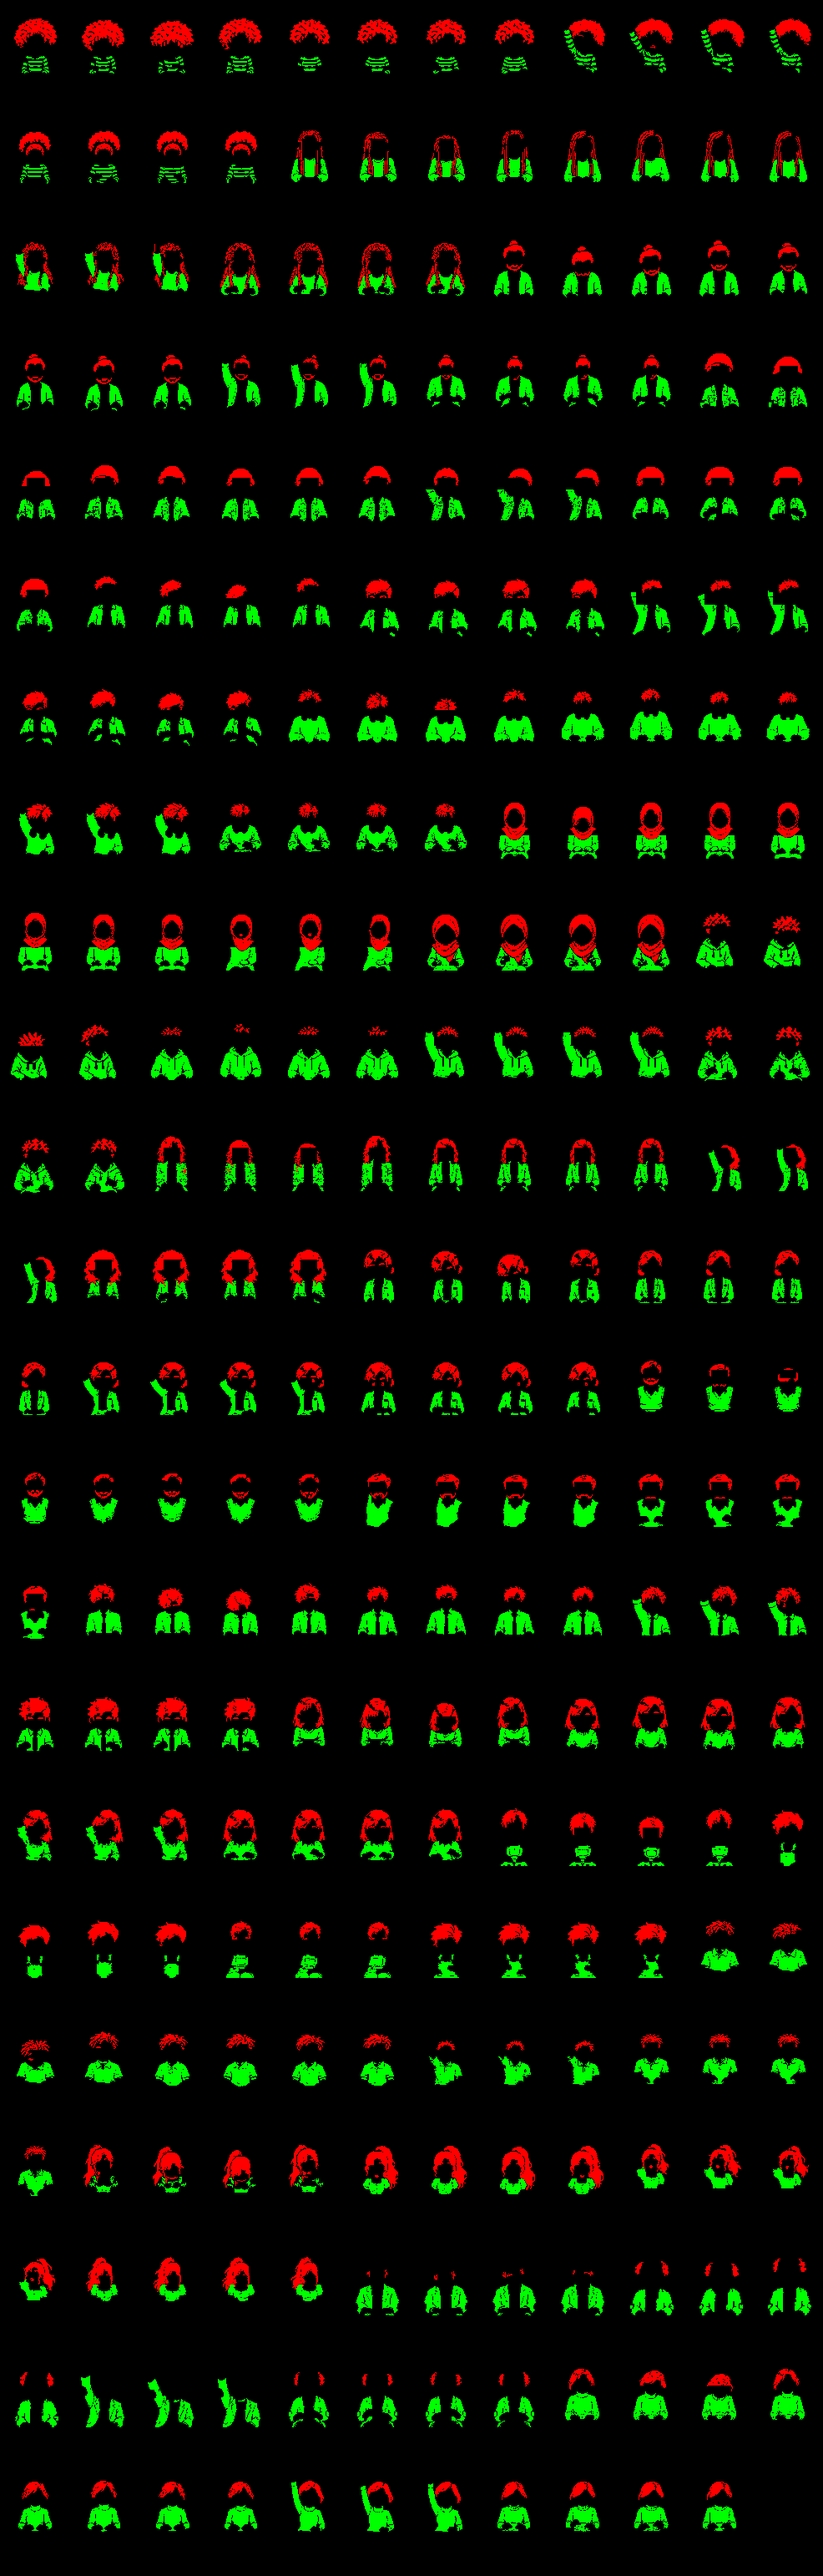
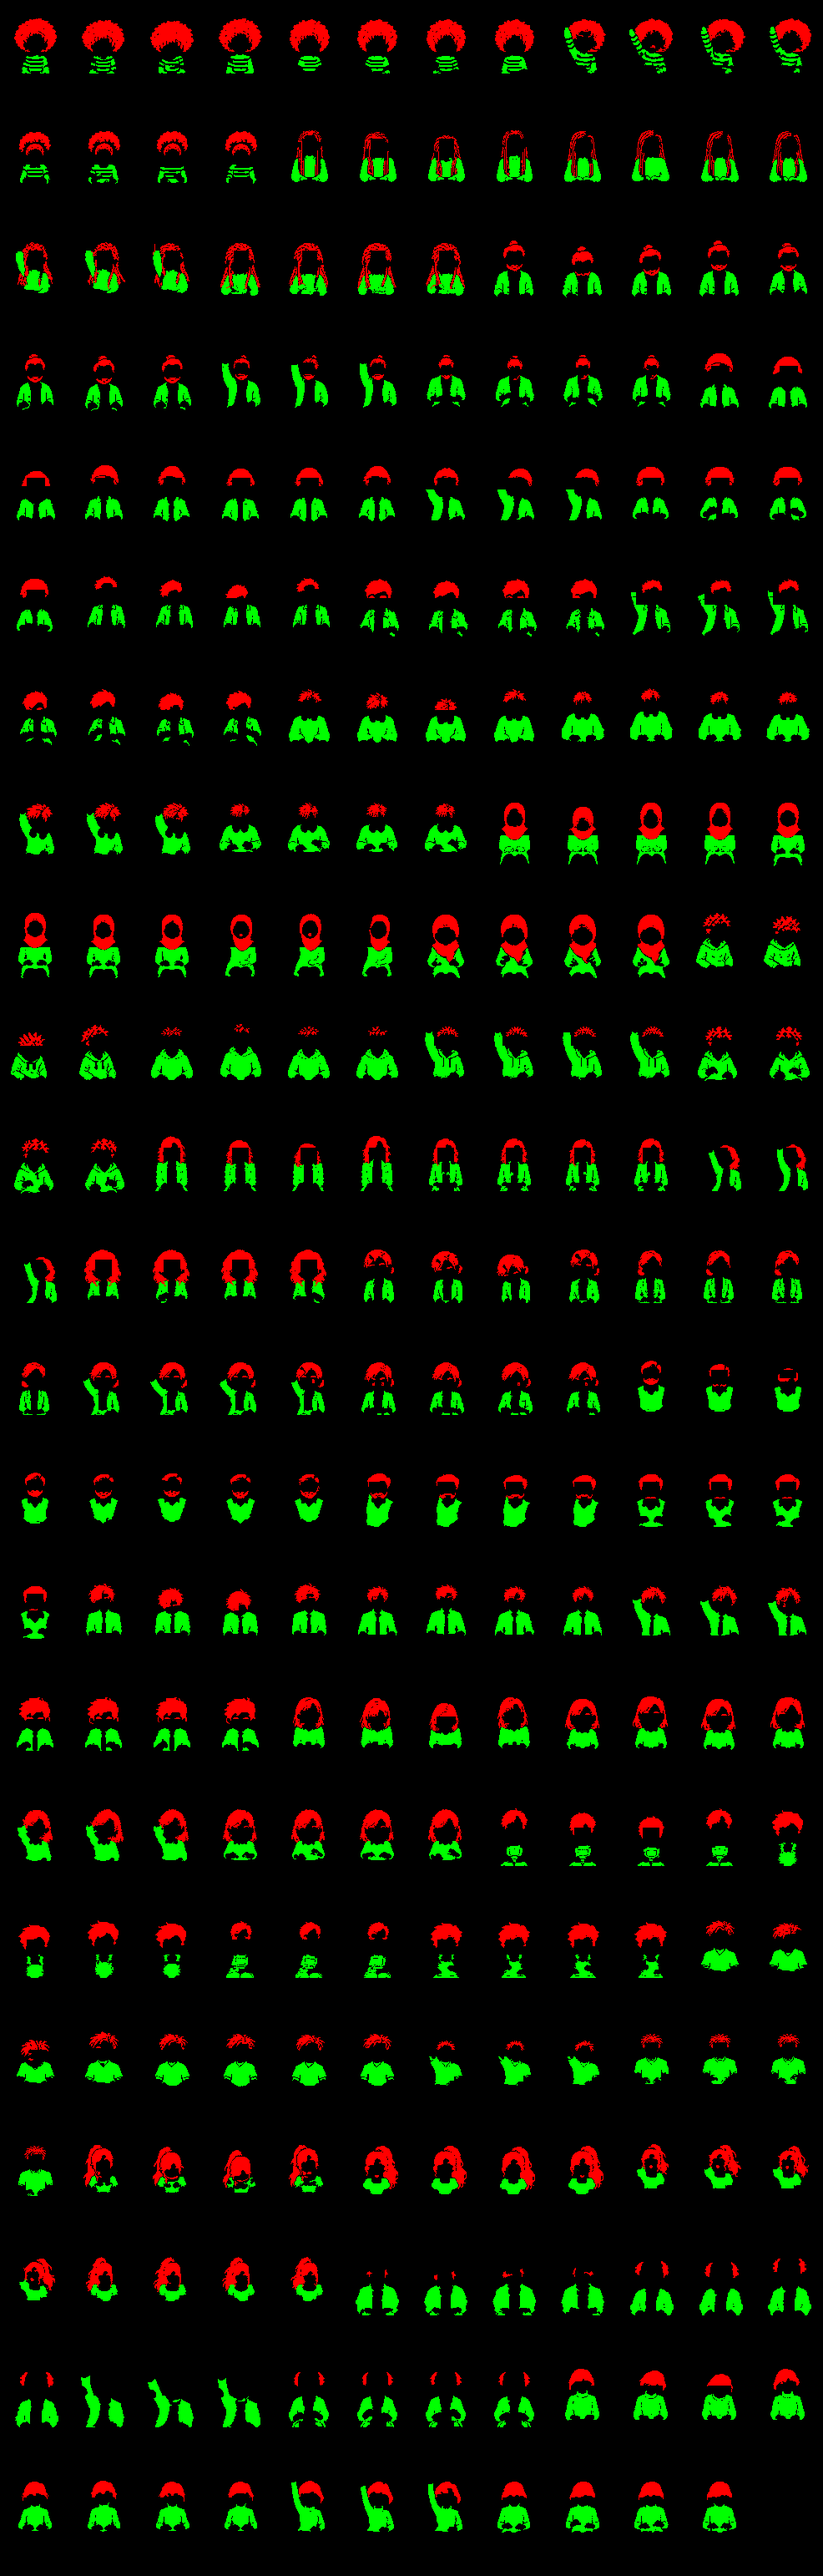
fix(sprites): 색 바꾸기 마스크에 음영·구멍을 메우는 후처리를 넣고 afro·hijab·lead-blazer 레시피 고치기

Changed region(s): [[0.6085, 0.0, 0.6389, 0.0311]]

diff --git a/tools/sprites/mask.py b/tools/sprites/mask.py
@@ -32,6 +32,20 @@
 고를 색에만 더하고 기본색 계산에는 넣지 않는다 (기본색은 idle 표본 기준. 드문 색 기준은 부위의 `minShare`).
 레시피의 `direction` 은 그 칸(`char/<id>/<direction>/idle/0`)과 미리보기에서 볼 칸을 정한다.
 
+후처리 (레시피 맨 위 `"fill": {"grow": 1.5, "growSteps": 3, "majority": 2, "holes": 16}`, v5 레시피. 없으면 하지 않는다):
+위 규칙으로 고른 뒤 칸마다 부위별로 이 순서로 더한다. 부위의 세로 범위 밖·exclude 상자 안·다른 부위가 이미 고른 픽셀·
+투명 픽셀은 건드리지 않고, 외곽선(`outlineMax` 이하)은 더하지 않는다.
+- grow: 고른 픽셀에 8방향으로 맞닿고, 고를 색과의 거리가 tolerance×grow 미만이며 다른 부위·피부 표본보다 이 부위
+  표본이 더 가까운 픽셀을 growSteps 걸음까지 더한다 (표본 밖의 한 단계 더 짙거나 옅은 음영·주름선)
+- majority: 8이웃 중 5개 이상이 고른 픽셀인 것을 majority 번 더한다 (덩어리 가장자리의 이 빠진 곳)
+- holes: 고른 픽셀 ∪ 외곽선이 4방향으로 둘러싼 holes 픽셀 이하 구멍 중 둘레의 절반 이상이 고른 픽셀인 것을 메운다
+  (외곽선만으로 닫힌 눈·신발은 둘레 조건으로 빠진다)
+- 머리·윗옷이 같은 픽셀을 더하면 원래 고른 쪽이 갖고, 둘 다 새로 더한 것이면 둘 다 뺀다
+이유: 표본 상자 안에 있던 음영색이 드문 색 기준(minShare)에 걸리거나 tolerance 를 조금 넘어, 바꾼 색 사이에 원래 색 픽셀이
+섬·구멍·가장자리 줄로 남았다 (18명 × 세 방향 × 모든 칸에서 51,283 픽셀. 60% 가 드문 색, 22% 가 표본 밖 음영).
+minShare 를 낮추면 피부·다른 부위가 같이 잡혀서, 고른 픽셀에 붙은 것만 더하는 후처리로 고친다 (94% 를 고치고
+그 밖에 더한 것은 그림으로 보면 대부분 소매 끝·옷깃·음영처럼 실제 그 부위였다).
+
 사용:
   python tools/sprites/mask.py --recipe tools/sprites/recipes/office-v3-recolor.json \
       --atlas web/public/office/office-v3 [--preview 미리보기.png]
@@ -186,6 +200,89 @@ def shared_weights(cell: np.ndarray, owns: dict, slots: dict, skin, tolerances: 
     return weights
 
 
+FILL_KEYS = {'grow', 'growSteps', 'majority', 'holes'}
+
+
+def neighbors8(binary: np.ndarray) -> np.ndarray:
+    """칸마다 8이웃 중 참인 수"""
+    return box_sum(binary, 1) - binary.astype(int)
+
+
+def holes_in(wall: np.ndarray, max_size: int) -> list[np.ndarray]:
+    """wall 이 4방향으로 둘러싼(그림 가장자리에 닿지 않는) max_size 픽셀 이하 구멍 덩어리들"""
+    height, width = wall.shape
+    seen = np.zeros_like(wall)
+    out = []
+    for start_y, start_x in zip(*np.nonzero(~wall)):
+        if seen[start_y, start_x]:
+            continue
+        stack, members, touches = [(start_y, start_x)], [], False
+        seen[start_y, start_x] = True
+        while stack:
+            y, x = stack.pop()
+            members.append((y, x))
+            if y in (0, height - 1) or x in (0, width - 1):
+                touches = True
+            for ny, nx in ((y - 1, x), (y + 1, x), (y, x - 1), (y, x + 1)):
+                if 0 <= ny < height and 0 <= nx < width and not wall[ny, nx] and not seen[ny, nx]:
+                    seen[ny, nx] = True
+                    stack.append((ny, nx))
+        if not touches and len(members) <= max_size:
+            component = np.zeros_like(wall)
+            ys, xs = zip(*members)
+            component[list(ys), list(xs)] = True
+            out.append(component)
+    return out
+
+
+def allowed_area(shape: tuple[int, int], rule: dict) -> np.ndarray:
+    """부위의 세로 범위 안이면서 exclude 상자 밖"""
+    area = np.zeros(shape, dtype=bool)
+    y0, y1 = rule['y']
+    area[y0:y1] = True
+    for x0, ey0, x1, ey1 in rule.get('exclude', []):
+        area[ey0:ey1, x0:x1] = False
+    return area
+
+
+def fill_weights(cell: np.ndarray, weights: dict, slots: dict, owns: dict, skin, tolerances: dict, fill: dict) -> dict[str, np.ndarray]:
+    """후처리 (머리말 "후처리"): 색 확장 → 다수결 확장 → 구멍 메우기. 가중치 0/1"""
+    opaque = cell[..., 3] > 0
+    out = {slot: weights[slot] > 0 for slot in SLOTS}
+    for slot in SLOTS:
+        rule = slots[slot]
+        other = next(o for o in SLOTS if o != slot)
+        dark = opaque & (cell[..., :3].max(axis=2) <= rule.get('outlineMax', OUTLINE_MAX))
+        free = opaque & ~out[other] & allowed_area(out[slot].shape, rule) & ~dark
+        picked = out[slot].copy()
+        if fill.get('grow'):
+            band = cell.reshape(-1, 4).astype(float)
+            own_distance = nearest(band, owns[slot][0])[0].reshape(cell.shape[:2])
+            closer = own_distance < tolerances[slot] * fill['grow']
+            for rival in [owns[other]] + ([skin] if skin is not None else []):
+                closer &= own_distance < nearest(band, rival[0])[0].reshape(cell.shape[:2])
+            like = free & closer
+            for _ in range(fill.get('growSteps', 1)):
+                grow = (box_sum(picked, 1) > 0) & like & ~picked
+                if not grow.any():
+                    break
+                picked |= grow
+        for _ in range(fill.get('majority', 0)):
+            grow = (neighbors8(picked) >= 5) & free & ~picked
+            if not grow.any():
+                break
+            picked |= grow
+        if fill.get('holes'):
+            for component in holes_in(picked | dark, fill['holes']):
+                ring = (box_sum(component, 1) > 0) & ~component
+                if picked[ring].sum() * 2 >= ring.sum():
+                    picked |= component & free
+        out[slot] = picked
+    # 머리·윗옷이 같은 픽셀을 더하면 원래 고른 쪽이 갖고, 둘 다 새로 더한 것이면 둘 다 뺀다
+    both = out['hair'] & out['top']
+    return {slot: (out[slot] & (~both | (weights[slot] > 0))).astype(float) for slot in SLOTS}
+
+
 def main() -> int:
     parser = argparse.ArgumentParser()
     parser.add_argument('--recipe', required=True)
@@ -205,6 +302,10 @@ def main() -> int:
     prefix = f"{recipe['direction']}/" if recipe.get('direction') else ''
 
     is_v2 = recipe.get('method', 1) == 2
+    fill = recipe.get('fill')
+    if fill is not None and (not isinstance(fill, dict) or set(fill) - FILL_KEYS):
+        print(f'레시피 fill 은 {sorted(FILL_KEYS)} 만 쓴다', file=sys.stderr)
+        return 1
 
     mask = np.zeros(atlas.shape, dtype=np.uint8)
     mask[..., 3] = 255
@@ -276,6 +377,8 @@ def main() -> int:
                         if skin_share is not None:
                             rivals.append(skin_share)
                     weights[slot] = slot_weight(cell, owns[slot], rivals, slots[slot], tolerances[slot], is_v2)
+            if fill:
+                weights = fill_weights(cell, weights, slots, owns, skin_share, tolerances, fill)
             for slot in SLOTS:
                 region = mask[y:y + h, x:x + w, CHANNEL[slot]]
                 np.maximum(region, (weights[slot] * 255).round().astype(np.uint8), out=region)

diff --git a/.claude/rules/office-art.md b/.claude/rules/office-art.md
@@ -35,9 +35,9 @@ paths:
 - 팀원 spawn 은 인물을 호스트에 spawn 을 보내기 **전에** 쓴다 (못 보내면 지운다). 뒤에 쓰면 호스트가 같은 때 `webSessions` 를 쓰며 덮어써 사라진다 — 시험 서버에서 팀원을 쉬지 않고 연달아 띄우면 spawn 뒤에 쓰는 이름·역할·성별이 8명 중 5명꼴로 사라졌다(호스트 쓰기의 rename 재시도로 창이 길어지는 것으로 짐작). 1.5초 간격이면 다 남았다
 
 - **색 바꾸기 규칙** (`web/src/recolor.ts`, 트레이 사본 `desktop/src/recolor.ts` — 고치면 둘 다, `desktop/src/recolor.test.ts` 가 같은 결과인지 본다): 바꾼 색 = 고른 색의 색상·채도 + 고른 색 밝기 + (픽셀 밝기 − 기본색 밝기) × 배율(고른 색 밝기 / 기본색 밝기, 0.6~3). 기본색보다 밝은 쪽은 고른 색 밝기에서 1 까지 남은 여유 안에 `여유 × (1 − e^(−차이/여유))` 로 눌러 담는다 — 그냥 더하면 밝은 색을 고를 때 하이라이트가 흰색으로 날아갔다. 어두운 쪽은 배율만. 기본색(null)이면 마스크를 아예 안 쓴다(그림이 픽셀 단위로 그대로). 그래서 **기본색이 실제 부위 색과 어긋나면 결과가 하얗게·까맣게 뜬다** — 기본색은 마스크 JSON 의 값이다
-- **색 바꾸기 마스크** (`mask.py`, 머리말에 전문): 인물마다 idle 첫 칸의 표본 상자(`sample`) 색을 모으고, 그 인물의 모든 칸에서 세로 범위(`y`) 안이면서 표본 색과 가까운(`tolerance`) 픽셀을 고른다. 외곽선(가장 밝은 채널 `outlineMax` 기본 26 이하)·표본의 드문 색(`minShare` 기본 0.04 미만)·`exclude` 상자·10픽셀 미만 덩어리는 뺀다. v5 레시피는 맨 위 `"method": 2`: ① 기본색 = 표본 픽셀 수 기준 채널별 가운데 값 (옛 규칙은 고유 색의 가운데라 외곽선 쪽 변종에 끌려, overalls 머리 기본색이 #1f090d(실제 #eb7782)가 되어 밝기 배율 3 으로 하얗게 날아갔다. 정면 36칸 중 32칸의 기본색이 바뀌었다) ② 부위 경쟁: 머리·윗옷·피부(인물 단위 `skin` 상자) 표본 중 자기 표본이 가장 가까운 픽셀만 (같으면 진다) ③ 가중치 0/1 (거리 tolerance×0.8 미만). `method` 가 없는 v1·v3 레시피는 옛 규칙 그대로 (결과가 바이트 단위로 같다. 화면은 안 읽지만 다시 돌려도 안 바뀌게). 방향 판(up·right)은 `--sample-atlas` 로 정면 판에서 `sample`·`skin` 을 모으고, 정면 표본이 그 방향 팔레트와 안 맞으면 `sampleSelf`·`skinSelf`(그 방향 idle 첫 칸 좌표, 대신 씀)·`sampleAdd`(더함)를 쓴다. `sampleFrames` (`{"raise-hand/0": [상자]}`) 는 그 칸에서 고를 색만 더한다(기본색에는 안 넣음). `compete`: `false` 면 경쟁 안 함, `"share"` 면 머리·윗옷이 같은 색으로 맞설 때 표본 안 비율이 큰 쪽이 갖고 그다음 주변 7×7 다수결로 정한다 (lead-suit 세 방향: 검은 머리 하이라이트와 회색 정장이 팔레트 색을 나눠 써서 보통 경쟁이면 정장이 통째로 빠지고, 세로 범위로 가르면 고개 숙인 칸 어깨·든 팔 소매가 머리가 됐다)
+- **색 바꾸기 마스크** (`mask.py`, 머리말에 전문): 인물마다 idle 첫 칸의 표본 상자(`sample`) 색을 모으고, 그 인물의 모든 칸에서 세로 범위(`y`) 안이면서 표본 색과 가까운(`tolerance`) 픽셀을 고른다. 외곽선(가장 밝은 채널 `outlineMax` 기본 26 이하)·표본의 드문 색(`minShare` 기본 0.04 미만)·`exclude` 상자·10픽셀 미만 덩어리는 뺀다. v5 레시피는 맨 위 `"method": 2`: ① 기본색 = 표본 픽셀 수 기준 채널별 가운데 값 (옛 규칙은 고유 색의 가운데라 외곽선 쪽 변종에 끌려, overalls 머리 기본색이 #1f090d(실제 #eb7782)가 되어 밝기 배율 3 으로 하얗게 날아갔다. 정면 36칸 중 32칸의 기본색이 바뀌었다) ② 부위 경쟁: 머리·윗옷·피부(인물 단위 `skin` 상자) 표본 중 자기 표본이 가장 가까운 픽셀만 (같으면 진다) ③ 가중치 0/1 (거리 tolerance×0.8 미만) ④ 후처리 — 레시피 맨 위 `"fill": {"grow": 1.5, "growSteps": 3, "majority": 2, "holes": 16}` (v5 세 레시피): 위로 고른 뒤 칸마다 고른 픽셀에 8방향으로 붙고 고를 색과 tolerance×1.5 미만이며 다른 부위·피부 표본보다 이 부위가 가까운 픽셀을 3걸음까지 → 8이웃 5개 이상이 고른 픽셀인 것을 2번 → 고른 픽셀 ∪ 외곽선이 둘러싼 16픽셀 이하 구멍(둘레 절반 이상이 고른 픽셀) 순으로 더한다. 세로 범위 밖·exclude 안·다른 부위가 고른 픽셀·외곽선은 건드리지 않고, 머리·윗옷이 둘 다 새로 더한 픽셀은 뺀다. 이유: 바꾼 색 사이에 원래 색이 섬·구멍·가장자리 줄로 남았다 (18명 × 세 방향 × 모든 칸 51,283px. 60% 가 표본 상자 안에 있었는데 `minShare` 에 걸려 빠진 음영, 22% 가 tolerance 밖 음영). `minShare` 를 0.01 로 낮추면 36% 만 고치고 피부·다른 부위가 같이 잡혀(5만 px 넘게 더하고 기존 5천 px 가 빠짐) 고른 픽셀에 붙은 것만 더한다 — 후처리로 94% 를 고쳤고 그 밖에 더한 픽셀은 그림으로 보면 대부분 소매 끝·옷깃·음영처럼 실제 그 부위였다 (눈에 띈 차이: professor 팔꿈치 패치도 새 색이 된다). 어두운 외곽선까지 메우면 다른 곳이 10만 px 더 칠해져 넣지 않았다. `method` 가 없는 v1·v3 레시피는 옛 규칙 그대로 (결과가 바이트 단위로 같다. 화면은 안 읽지만 다시 돌려도 안 바뀌게). 방향 판(up·right)은 `--sample-atlas` 로 정면 판에서 `sample`·`skin` 을 모으고, 정면 표본이 그 방향 팔레트와 안 맞으면 `sampleSelf`·`skinSelf`(그 방향 idle 첫 칸 좌표, 대신 씀)·`sampleAdd`(더함)를 쓴다. `sampleFrames` (`{"raise-hand/0": [상자]}`) 는 그 칸에서 고를 색만 더한다(기본색에는 안 넣음). `compete`: `false` 면 경쟁 안 함, `"share"` 면 머리·윗옷이 같은 색으로 맞설 때 표본 안 비율이 큰 쪽이 갖고 그다음 주변 7×7 다수결로 정한다 (lead-suit 세 방향: 검은 머리 하이라이트와 회색 정장이 팔레트 색을 나눠 써서 보통 경쟁이면 정장이 통째로 빠지고, 세로 범위로 가르면 고개 숙인 칸 어깨·든 팔 소매가 머리가 됐다)
   - 함정 ① **상태 행(typing·raise-hand·doze)은 따로 생성돼 같은 부위도 팔레트 색이 idle 과 다르다** (hijab 정면 typing 스카프 #e88679 ↔ idle #d26458). idle 표본만으로는 그 칸이 빠진다 → `sampleFrames`. ② **`y`·`exclude` 는 칸마다 같은 셀 좌표라 idle 기준으로 잡으면 다른 칸에서 깨진다** — 든 팔 소매가 윗옷 `y` 위로 나가고(headphones·hoodie·braids 등), 얼굴 exclude 가 고개 숙인 칸의 머리·옮겨 간 블레이저를 지운다(hijab 옆 doze, lead-blazer 정면 raise-hand). 얼굴은 exclude 보다 `skin`/`skinSelf` 경쟁으로 막는 편이 칸 이동에 강하다. ③ 피부·셔츠 음영과 같은 색을 표본에 넣으면 다른 칸의 팔·얼굴이 잡힌다 (polo 셔츠 음영 #b8682a 를 넣으니 typing 팔뚝이, professor raise-hand 흰 옆머리를 넣으니 모든 칸 얼굴이 머리가 됐다). 상자 안 색은 먼저 찍어 보고 넣는다
-  - 레시피를 고치면 세 방향 마스크를 다시 만들고(아틀라스만 있으면 된다. 생성 원본 불필요), **idle 만이 아니라 18명 × 세 방향 × 모든 칸**에 마스크를 칠해 본다 (`--preview` 는 idle·raise-hand 첫 칸뿐). 지금 남은 것: polo 정면 셔츠의 주황 음영선(그 색이 다른 칸 팔 피부색과 같아 못 넣음)·hijab 정면 raise-hand 의 든 베이지 소매(피부색과 같음)·professor 정면 raise-hand 흰 옆머리·flannel 정면 doze/0 그늘진 갈색 머리·lead-vest 옆 typing 등 쪽 짙은 빨강·afro 뒷모습 아래쪽 거의 검은 머리(외곽선 한도에 걸림) 같은 작은 잔점
+  - 레시피를 고치면 세 방향 마스크를 다시 만들고(아틀라스만 있으면 된다. 생성 원본 불필요), **idle 만이 아니라 18명 × 세 방향 × 모든 칸**에 마스크를 칠해 본다 (`--preview` 는 idle·raise-hand 첫 칸뿐). 지금 남은 것(후처리는 고른 픽셀에 붙은 것만 더해서 칸 하나에서 부위가 통째로 빠진 곳은 못 고친다): professor 정면 raise-hand 흰 옆머리(0px. 표본에 넣으면 모든 칸 얼굴이 머리가 된다 — 함정 ③)·lead-blazer 정면 typing 머리 가운데 갈색 네모(얼굴 exclude 가 커진 머리를 지운다. exclude 를 빼면 모든 칸 눈·눈썹이 머리색이 되어, 칸별 exclude 같은 옵션이 있어야 고친다)·lead-blazer 정면 raise-hand 블레이저가 회색으로 보임(칠해지지만 그 칸 블레이저가 idle 기본색보다 어두워 밝기 차이만큼 어둡게 나온다 — 기본색 문제)·hijab 정면 어깨 베이지(윗옷 `y` 를 52 로 내리면 typing 칸 턱이 칠해져 60 으로 둔다)·braids 옆모습 셔츠의 짙은 빨강 솔기선(전부 tolerance 밖 색)·afro 목덜미의 거의 검은 머리(`outlineMax` 18 아래. 12 로 내리면 귀 옆에 잔점이 생겼다)
 
 ## 확인하지 못한 것
 
